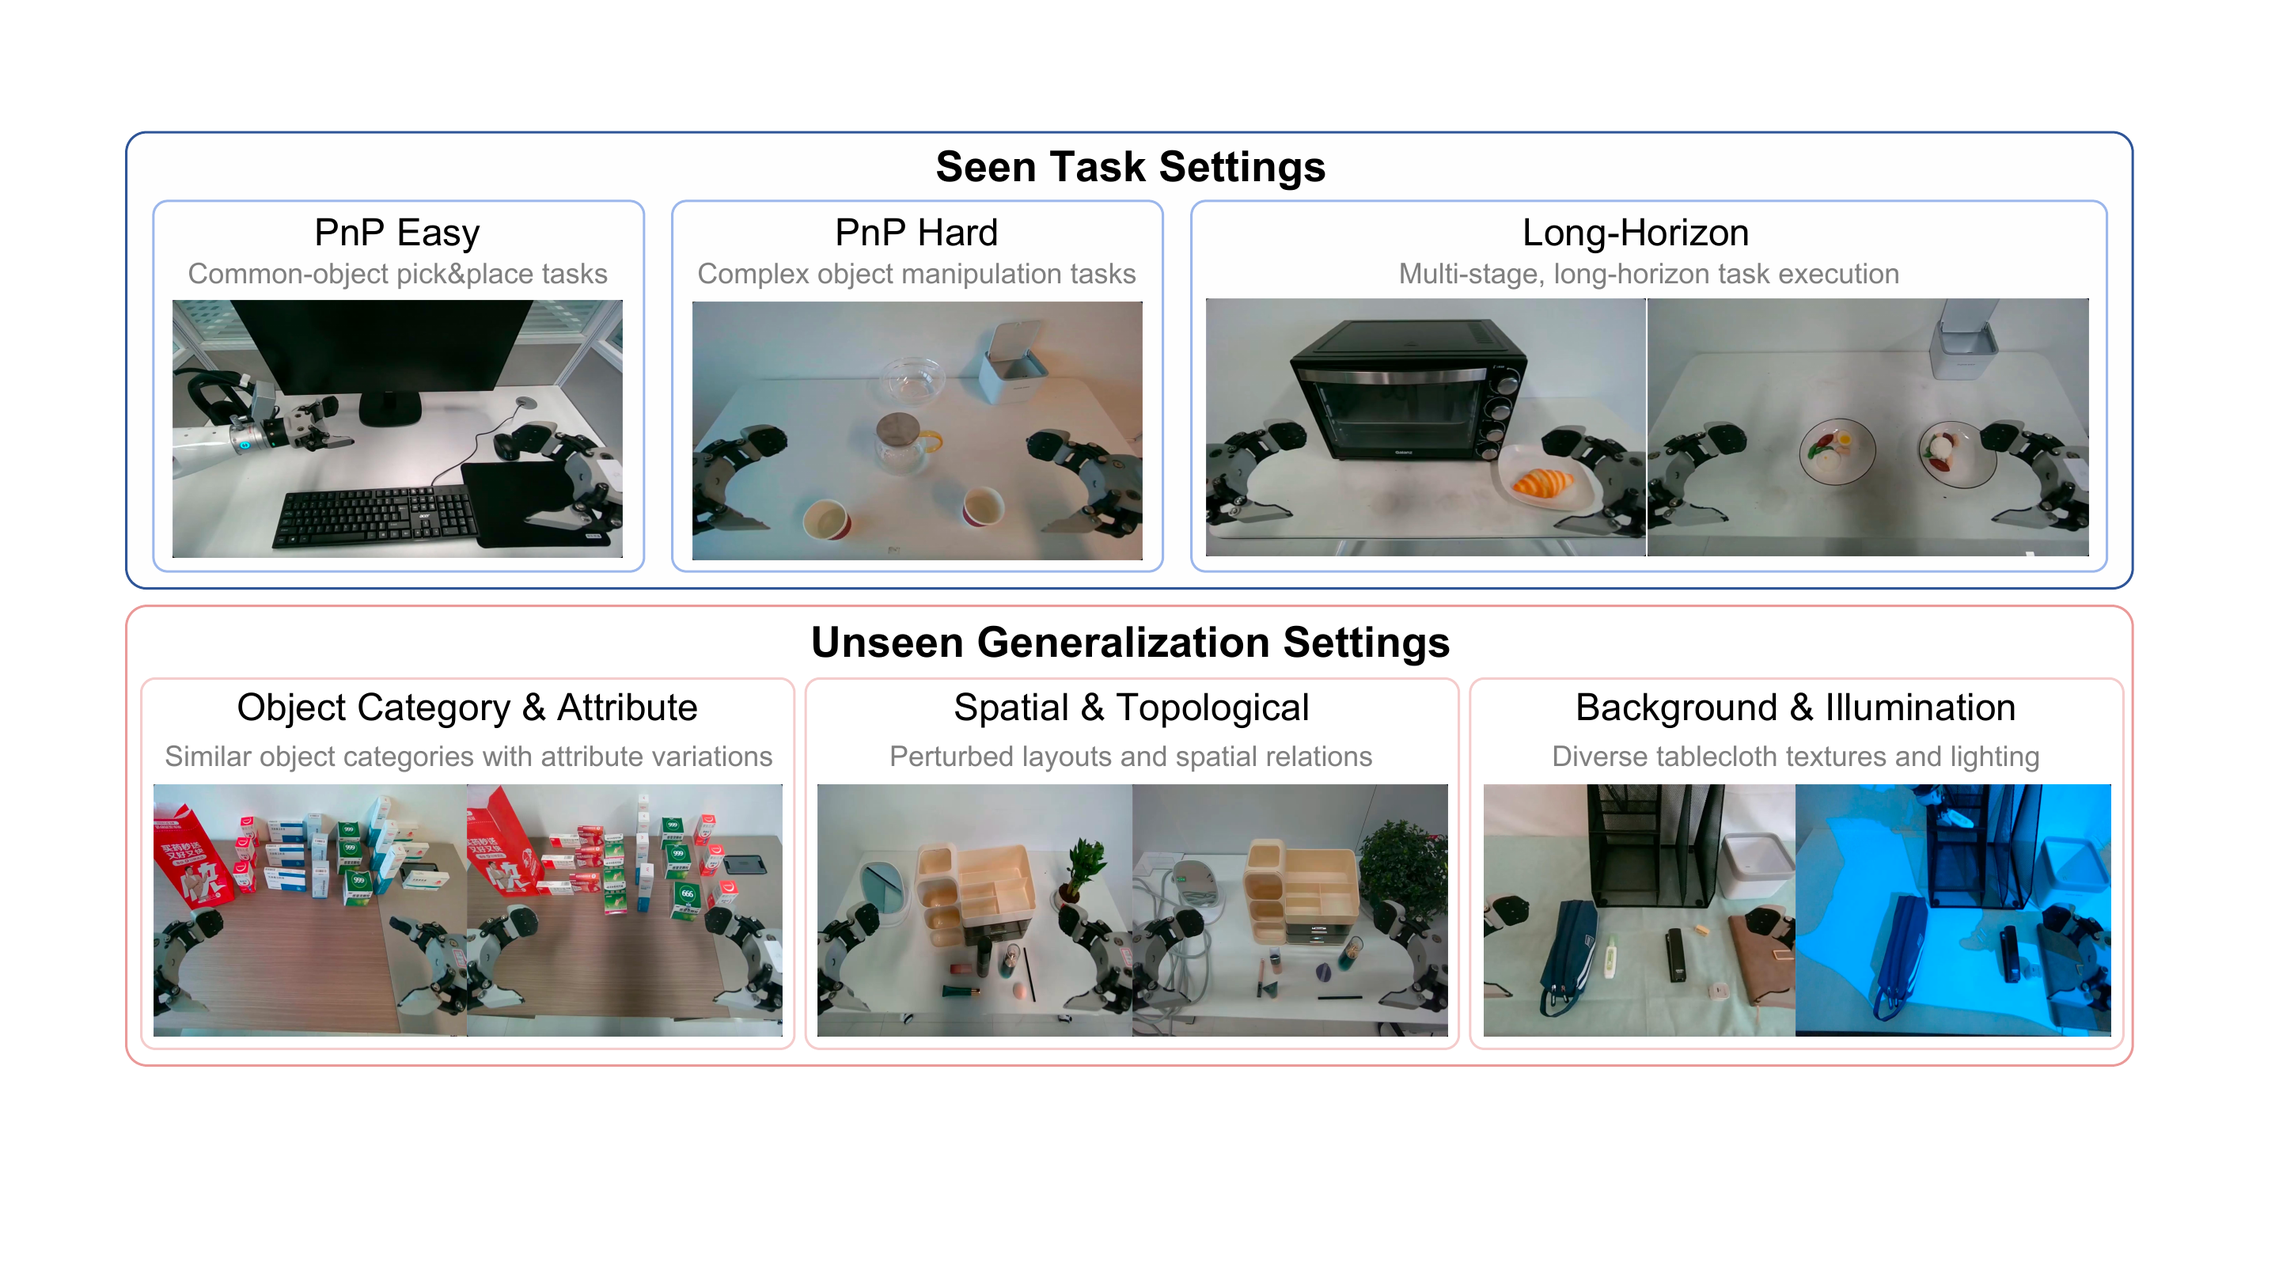
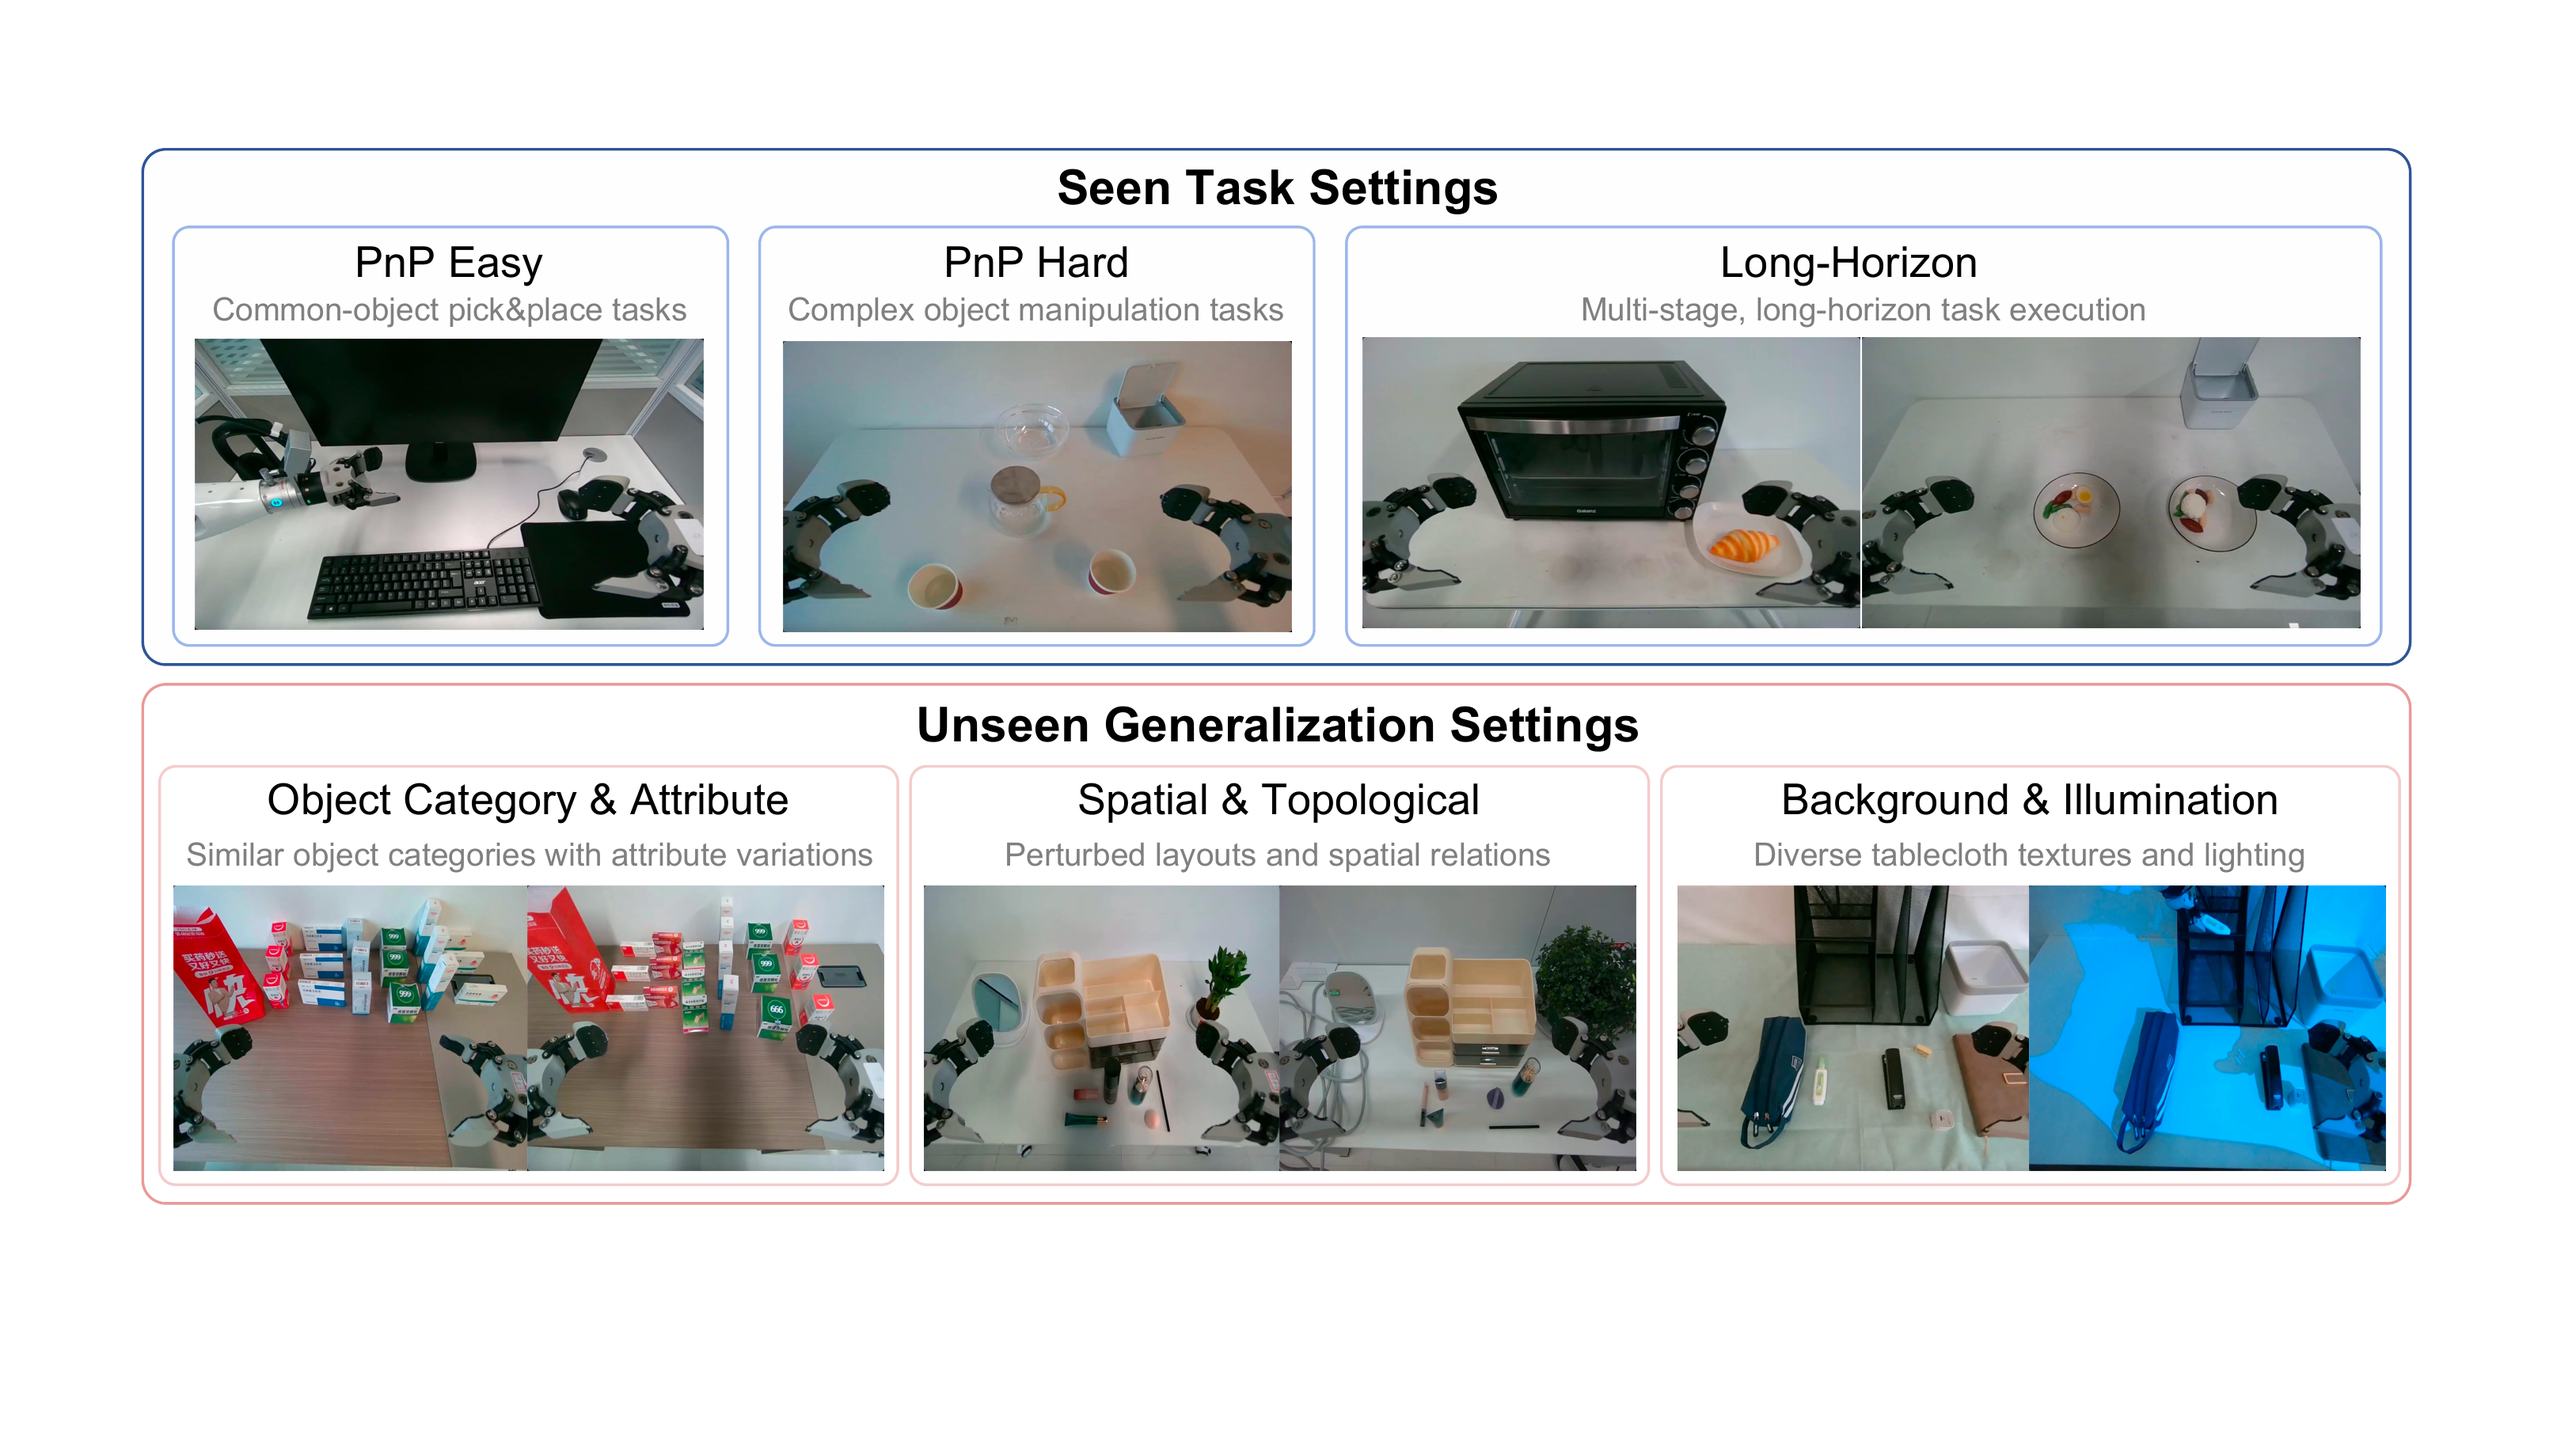
Sync figures with latest Overleaf and enlarge text

diff --git a/index.html b/index.html
@@ -59,7 +59,7 @@
 
         <div class="hero-gallery" aria-hidden="true">
           <figure class="gallery-card gallery-card-one">
-            <img src="assets/architecture.png" alt="" width="2426" height="1100" />
+            <img src="assets/architecture.png" alt="" width="3064" height="1462" />
           </figure>
           <figure class="gallery-card gallery-card-two">
             <img
@@ -73,8 +73,8 @@
             <img
               src="assets/experiment-setting.png"
               alt=""
-              width="2880"
-              height="1620"
+              width="3254"
+              height="1830"
             />
           </figure>
         </div>
@@ -252,8 +252,8 @@
             <img
               src="assets/architecture.png"
               alt="JoyAI-RA architecture showing heterogeneous data, latent-action learning, a unified 130-dimensional action representation, LAC-WM, VLM, and action expert"
-              width="2426"
-              height="1100"
+              width="3064"
+              height="1462"
               loading="lazy"
             />
             <figcaption>
@@ -473,8 +473,8 @@
             <img
               src="assets/experiment-setting.png"
               alt="Real-World AgiBot Benchmark settings with seen pick-and-place and long-horizon tasks plus unseen object, spatial, background, and illumination variations"
-              width="2880"
-              height="1620"
+              width="3254"
+              height="1830"
               loading="lazy"
             />
             <button

diff --git a/technical.css b/technical.css
@@ -385,7 +385,7 @@ p {
   max-width: 60rem;
   margin: 0;
   color: var(--muted);
-  font-size: 1.05rem;
+  font-size: 1.14rem;
   line-height: 1.85;
 }
 
@@ -451,7 +451,7 @@ p {
 .section-body {
   max-width: 72rem;
   color: var(--muted);
-  font-size: 1.04rem;
+  font-size: 1.14rem;
   line-height: 1.85;
 }
 
@@ -572,6 +572,7 @@ p {
 .data-table p {
   margin: 0;
   color: var(--muted);
+  font-size: 1.06rem;
 }
 
 .overview-cards {
@@ -613,6 +614,7 @@ p {
 .report-note p {
   margin: 18px 0 0;
   color: var(--muted);
+  font-size: 1.08rem;
 }
 
 .compact-grid {
@@ -636,7 +638,7 @@ p {
 .compact-grid p {
   margin: 0;
   color: var(--muted);
-  font-size: 0.98rem;
+  font-size: 1.08rem;
 }
 
 .method-grid {
@@ -654,6 +656,8 @@ p {
 .method-grid p {
   margin: 22px 0 0;
   color: var(--muted);
+  font-size: 1.08rem;
+  line-height: 1.78;
 }
 
 .result-grid {
@@ -703,6 +707,7 @@ p {
 .score-summary p {
   margin: 0;
   color: var(--muted);
+  font-size: 1.04rem;
 }
 
 .score-list {
@@ -719,6 +724,7 @@ p {
 
 .score-list span {
   color: var(--text);
+  font-size: 1.04rem;
   font-weight: 760;
 }
 
@@ -829,6 +835,8 @@ p {
 .featured-demo p,
 .video-grid p {
   color: var(--muted);
+  font-size: 1.06rem;
+  line-height: 1.72;
 }
 
 .featured-demo p {
@@ -868,7 +876,7 @@ p {
 .citation-card p {
   margin: 0;
   color: var(--muted);
-  font-size: 1.12rem;
+  font-size: 1.2rem;
 }
 
 .site-footer {
@@ -1046,7 +1054,7 @@ p {
 
   .abstract,
   .section-body {
-    font-size: 1rem;
+    font-size: 1.06rem;
   }
 
   .section {

diff --git a/technical.html b/technical.html
@@ -71,8 +71,8 @@
                 <img
                   src="assets/architecture.png"
                   alt="JoyAI-RA architecture showing heterogeneous data, latent-action learning, unified action representation, LAC-WM, VLM, and action expert"
-                  width="2426"
-                  height="1100"
+                  width="3064"
+                  height="1462"
                 />
               </div>
             </figure>
@@ -104,8 +104,8 @@
           <img
             src="assets/architecture.png"
             alt="JoyAI-RA architecture showing heterogeneous data, latent-action learning, unified action representation, LAC-WM, VLM, and action expert"
-            width="2426"
-            height="1100"
+            width="3064"
+            height="1462"
             loading="eager"
           />
           <figcaption>
@@ -261,8 +261,8 @@
           <img
             src="assets/experiment-setting.png"
             alt="Real-World AgiBot Benchmark settings with seen and unseen task settings"
-            width="2880"
-            height="1620"
+            width="3254"
+            height="1830"
             loading="lazy"
           />
           <button
